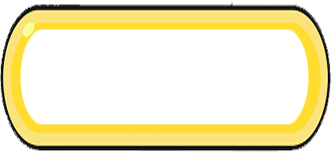
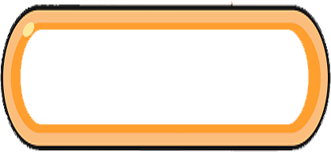
redisenio final

diff --git a/Game/game.html b/Game/game.html
@@ -118,6 +118,9 @@ var desconectado = 0;
         this.designerMode = data.designerMode;
         this.dificultad = data.dificultad;
 
+
+
+
         //GUARDAR DATA
         localStorage.setItem("firstRun", 0);
 localStorage.setItem("designerMode", data.designerMode);
@@ -207,10 +210,11 @@ localStorage.setItem("gamemode", data.gamemode);
 
           this.load.spritesheet('enemigoquemado', 'https://i.ibb.co/TwH1WFb/enemigoquemado.png', { frameWidth: 46, frameHeight: 60, endFrame: 16 });
       
-        this.load.image('ship', 'https://i.ibb.co/fHnPxX9/jugador.png');
-        this.load.image('ship2', 'https://i.ibb.co/0fVW6Zc/jugador2.png');
-        this.load.image('ship3', 'https://i.ibb.co/LPFvhf7/jugador3.png');
-        this.load.image('ship4', 'https://i.ibb.co/9Gp2xNj/jugador4.png');
+              this.load.spritesheet('ship', 'https://i.ibb.co/fHnPxX9/jugador.png', { frameWidth: 46, frameHeight: 68, endFrame: 16 });
+         this.load.spritesheet('ship2', 'https://i.ibb.co/0fVW6Zc/jugador2.png', { frameWidth: 46, frameHeight: 68, endFrame: 16 });
+     this.load.spritesheet('ship3', 'https://i.ibb.co/LPFvhf7/jugador3.png', { frameWidth: 46, frameHeight: 68, endFrame: 16 });
+      this.load.spritesheet('ship4', 'https://i.ibb.co/9Gp2xNj/jugador4.png', { frameWidth: 46, frameHeight: 68, endFrame: 16 });
+ 
         this.load.image('vida', 'https://i.ibb.co/yNSBcGv/vida.png');
         this.load.image('bomba', 'https://i.ibb.co/z6r3c26/bomba.png');
         this.load.image('explosion', 'https://i.ibb.co/h9RPDzp/explosion.png');
@@ -598,31 +602,8 @@ this.anims.remove('jugador1Derecha');
         if (this.gamemode != 0)
           this.kill = this.physics.add.sprite(92, 336 + 96, 'kills');
 
-        if (this.jugadoresTotal >= 2) {
-          //HUD jugador 2
 
-          this.vida2 = this.physics.add.sprite(92 , 486 + 48, 'vida');
-          if (this.gamemode == 1 || this.gamemode == 2)
-            this.kill = this.physics.add.sprite(92, 486 + 96, 'kills');
 
-          if (this.personajeP2 == 1)
-            this.vida2.setTexture('jugadorAzul');
-          if (this.personajeP2 == 2)
-            this.vida2.setTexture('jugadorCeleste');
-          if (this.personajeP2 == 3)
-            this.vida2.setTexture('jugadorNaranja');
-          if (this.personajeP2 == 4)
-            this.vida2.setTexture('jugadorAmarillo');
-          if (this.personajeP2 == 5)
-            this.vida2.setTexture('jugadorRojo');
-          if (this.personajeP2 == 6)
-            this.vida2.setTexture('jugadorGris');
-          if (this.personajeP2 == 7)
-            this.vida2.setTexture('jugadorVerde');
-          if (this.personajeP2 == 8)
-            this.vida2.setTexture('jugadorNegro');
-          if (this.personajeP2 == 9)
-            this.vida2.setTexture('jugadorMorado');
 
 
         //COLOR PERSONAJE 2 Animacion
@@ -682,8 +663,36 @@ this.anims.remove('jugador2Derecha');
 
 
 
+        if (this.jugadoresTotal >= 2) {
+          //HUD jugador 2
+
+          this.vida2 = this.physics.add.sprite(92 , 486 + 48, 'vida');
+          if (this.gamemode == 1 || this.gamemode == 2)
+            this.kill = this.physics.add.sprite(92, 486 + 96, 'kills');
+
+
+          if (this.personajeP2 == 1)
+            this.vida2.setTexture('jugadorAzul');
+          if (this.personajeP2 == 2)
+            this.vida2.setTexture('jugadorCeleste');
+          if (this.personajeP2 == 3)
+            this.vida2.setTexture('jugadorNaranja');
+          if (this.personajeP2 == 4)
+            this.vida2.setTexture('jugadorAmarillo');
+          if (this.personajeP2 == 5)
+            this.vida2.setTexture('jugadorRojo');
+          if (this.personajeP2 == 6)
+            this.vida2.setTexture('jugadorGris');
+          if (this.personajeP2 == 7)
+            this.vida2.setTexture('jugadorVerde');
+          if (this.personajeP2 == 8)
+            this.vida2.setTexture('jugadorNegro');
+          if (this.personajeP2 == 9)
+            this.vida2.setTexture('jugadorMorado');
 
         }
+
+
 
         if (this.jugadoresTotal >= 3) {
           //HUD jugador 3
@@ -692,7 +701,9 @@ this.anims.remove('jugador2Derecha');
           if (this.gamemode == 1 || this.gamemode == 2)
             this.kill = this.physics.add.sprite(92, 636 + 96, 'kills');
 
-          if (this.personajeP3 == 1)
+    
+
+              if (this.personajeP3 == 1)
             this.vida3.setTexture('jugadorAzul');
           if (this.personajeP3 == 2)
             this.vida3.setTexture('jugadorCeleste');
@@ -710,6 +721,9 @@ this.anims.remove('jugador2Derecha');
             this.vida3.setTexture('jugadorNegro');
           if (this.personajeP3 == 9)
             this.vida3.setTexture('jugadorMorado');
+
+        }
+
 
 
 
@@ -766,9 +780,6 @@ this.anims.remove('jugador3Derecha');
         repeat: -1
     });
 
-
-
-        }
         //HUD jugador 4
 
         if (this.jugadoresTotal >= 4) {
@@ -777,7 +788,10 @@ this.anims.remove('jugador3Derecha');
           if (this.gamemode == 1 || this.gamemode == 2)
             this.kill = this.physics.add.sprite(92, 786 + 96, 'kills');
 
-          if (this.personajeP4 == 1)
+      
+
+
+            if (this.personajeP4 == 1)
             this.vida4.setTexture('jugadorAzul');
           if (this.personajeP4 == 2)
             this.vida4.setTexture('jugadorCeleste');
@@ -797,6 +811,9 @@ this.anims.remove('jugador3Derecha');
             this.vida4.setTexture('jugadorMorado');
 
 
+
+
+        }
 
 
 
@@ -854,8 +871,6 @@ this.anims.remove('jugador4Derecha');
     });
 
 
-
-        }
         this.minas = this.physics.add.group();
 
 
@@ -4715,15 +4730,15 @@ this.myShip2.setScale(0.85);
               if (valorobj == 6) {
                 this.boxFuerte.create(416 + this.x_add + valorx * 64, 128 + this.y_add + valory * 64, 'wall2');
               }
-              if (valorobj == 7) {
+              if (valorobj == 7 && this.jugadoresTotal >=2) {
                 this.myShip2.x = 416 + valorx * 64 + this.x_add;
                 this.myShip2.y = 128 + valory * 64 + this.y_add;
               }
-              if (valorobj == 8) {
+              if (valorobj == 8 && this.jugadoresTotal >=3) {
                 this.myShip3.x = 416 + valorx * 64 + this.x_add;
                 this.myShip3.y = 128 + valory * 64 + this.y_add;
               }
-              if (valorobj == 9) {
+              if (valorobj == 9 && this.jugadoresTotal >=4) {
                 this.myShip4.x = 416 + valorx * 64 + this.x_add;
                 this.myShip4.y = 128 + valory * 64 + this.y_add;
               }
@@ -4764,7 +4779,7 @@ this.myShip2.setScale(0.85);
         }
 
         function moverMenuArribaDes() {
-          if (this.designer == 1) {
+          if (this.designer == 1 && this.pause ==0) {
 
             if (this.seleccionadoSprite.y - 64 >= 128)
               this.seleccionadoSprite.y = this.seleccionadoSprite.y - 64;
@@ -4776,7 +4791,7 @@ this.myShip2.setScale(0.85);
         }
 
         function moverMenuAbajoDes() {
-          if (this.designer == 1) {
+          if (this.designer == 1&& this.pause ==0) {
 
             if (this.seleccionadoSprite.y + 64 <= 908)
               this.seleccionadoSprite.y = this.seleccionadoSprite.y + 64;
@@ -4787,7 +4802,7 @@ this.myShip2.setScale(0.85);
           }
         }
         function moverMenuIzqDes() {
-          if (this.designer == 1) {
+          if (this.designer == 1&& this.pause ==0) {
             if (this.seleccionadoSprite.x - 64 >= 416)
               this.seleccionadoSprite.x = this.seleccionadoSprite.x - 64;
 
@@ -4797,7 +4812,7 @@ this.myShip2.setScale(0.85);
           }
         }
         function moverMenuDerDes() {
-          if (this.designer == 1) {
+          if (this.designer == 1&& this.pause ==0) {
             if (this.seleccionadoSprite.x + 64 <= 1840)
               this.seleccionadoSprite.x = this.seleccionadoSprite.x + 64;
 
@@ -4806,7 +4821,7 @@ this.myShip2.setScale(0.85);
           }
         }
         function seleccionarOpcionMin() {
-          if (this.designer == 1) {
+          if (this.designer == 1&& this.pause ==0) {
             if (this.objetocolocar > 0)
               this.objetocolocar = this.objetocolocar - 1;
             else
@@ -4819,7 +4834,7 @@ this.myShip2.setScale(0.85);
 
 
         function seleccionarOpcionMax() {
-          if (this.designer == 1) {
+          if (this.designer == 1 && this.pause ==0) {
             if (this.objetocolocar <= 8)
               this.objetocolocar = this.objetocolocar + 1;
             else
@@ -4923,15 +4938,15 @@ this.myShip2.setScale(0.85);
             if (this.objetocolocar == 6) {
               this.boxFuerte.create(this.seleccionadoSprite.x, this.seleccionadoSprite.y, 'wall2');
             }
-            if (this.objetocolocar == 7) {
+            if (this.objetocolocar == 7 && this.jugadoresTotal >=2) {
               this.myShip2.x = this.seleccionadoSprite.x;
               this.myShip2.y = this.seleccionadoSprite.y;
             }
-            if (this.objetocolocar == 8) {
+            if (this.objetocolocar == 8 && this.jugadoresTotal >=3) {
               this.myShip3.x = this.seleccionadoSprite.x;
               this.myShip3.y = this.seleccionadoSprite.y;
             }
-            if (this.objetocolocar == 9) {
+            if (this.objetocolocar == 9 && this.jugadoresTotal >=4) {
               this.myShip4.x = this.seleccionadoSprite.x;
               this.myShip4.y = this.seleccionadoSprite.y;
             }
@@ -5307,15 +5322,15 @@ this.myShip2.setScale(0.85);
             if (this.objetocolocar == 6) {
               this.boxFuerte.create(this.seleccionadoSprite.x, this.seleccionadoSprite.y, 'wall2');
             }
-            if (this.objetocolocar == 7) {
+            if (this.objetocolocar == 7 && this.jugadoresTotal >=2) {
               this.myShip2.x = this.seleccionadoSprite.x;
               this.myShip2.y = this.seleccionadoSprite.y;
             }
-            if (this.objetocolocar == 8) {
+            if (this.objetocolocar == 8 && this.jugadoresTotal >=3) {
               this.myShip3.x = this.seleccionadoSprite.x;
               this.myShip3.y = this.seleccionadoSprite.y;
             }
-            if (this.objetocolocar == 9) {
+            if (this.objetocolocar == 9 && this.jugadoresTotal >=4) {
               this.myShip4.x = this.seleccionadoSprite.x;
               this.myShip4.y = this.seleccionadoSprite.y;
             }
@@ -5785,6 +5800,8 @@ this.myShip2.setScale(0.85);
         }
 
       update() {
+
+
 
 if(this.pause ==1){
 
@@ -6380,6 +6397,11 @@ else
               }
             }
             if (this.designer == 2) {
+
+
+          
+
+
 
               this.mapaNumero = this.mapaNumero - 1;
               var value = localStorage.getItem(this.mapaNumero);
@@ -9092,7 +9114,7 @@ this.load.image('selectorRect1', 'https://i.ibb.co/tKmGdqY/selector-Rect1.png');
 this.load.image('selectorRect2', 'https://i.ibb.co/ZBsCbYs/selectorrojo2.png');
 this.load.image('selectorRect3', 'https://i.ibb.co/xsf3jYf/selectorverde3.png');
 this.load.image('selectorRect4', 'https://i.ibb.co/y8mFV0h/selectormorado4.png');
-this.load.image('newselector', 'https://i.ibb.co/pzmP703/selector-Mapas2.png');
+this.load.image('newselector', 'https://i.ibb.co/bNRCLWp/selector-Mapas2.png');
                  this.load.image('fondo', 'https://i.ibb.co/JqKZ2xP/Menu-Opciones.png');
                  this.load.image('fondo2', 'https://i.ibb.co/8xLBN9F/Menu-Opciones-Normal.png')
                  this.load.image('fondo2mapa2', 'https://i.ibb.co/rQHxxBd/Menu-Opciones-Normal2.png')
@@ -9245,6 +9267,11 @@ this.mapaDesplegado = 0;
 this.seleccionarDif = 0;
 
 
+//DELETE
+this.nombreJ2 = "JOHN";
+this.nombreJ3 ="CENA";
+this.nombreJ4 = "AHH";
+
 
 
         this.menuexplosion = this.physics.add.sprite(1920/2, 1080/2, 'bombayexplosion');
@@ -9342,7 +9369,7 @@ this.readySprite4.visible = false;
 
 
 
-this.mapaNumeroEditadoString = this.add.text(594, 925, this.mapaNumeroEditado, { fontFamily: '"8-bit Arcade In"', fontSize: 24, fill: 'black',});
+this.mapaNumeroEditadoString = this.add.text(590, 914, this.mapaNumeroEditado, { fontFamily: '"Arial Black"', fontSize: 28, fill: 'black',});
 
  this.mapaNumeroEditadoString.visible = false;
 
@@ -12979,12 +13006,12 @@ if(this.seleccionInt ==34)
 
 if(this.modoopciones ==1)
 {
-  this.modoopcionesSprite.x = 387;
+  this.modoopcionesSprite.x = 391;
   this.modoopcionesSprite.y = 773;
 }
 if(this.modoopciones ==2)
 {
-  this.modoopcionesSprite.x = 805;
+  this.modoopcionesSprite.x = 809;
   this.modoopcionesSprite.y = 773;
 }
 
